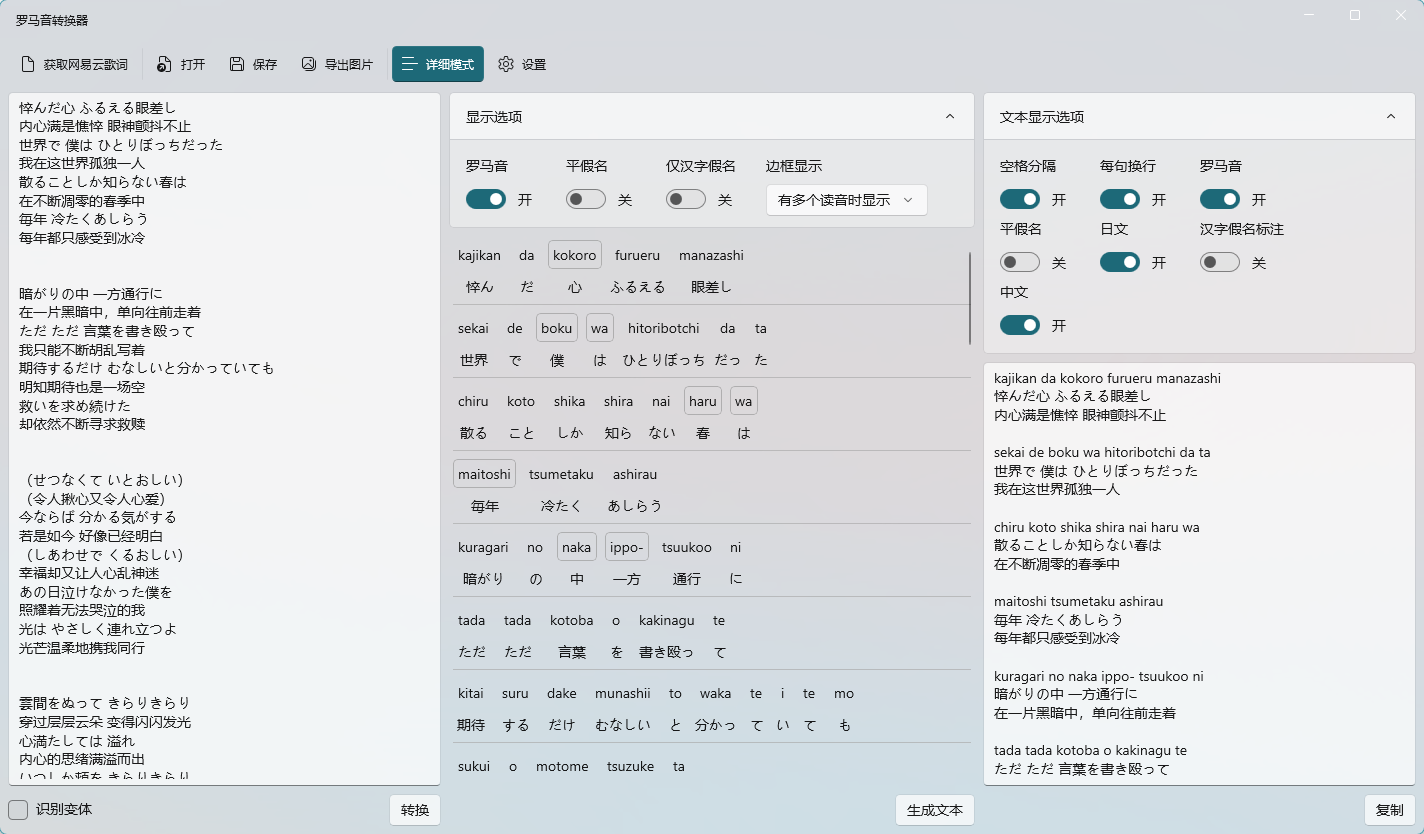
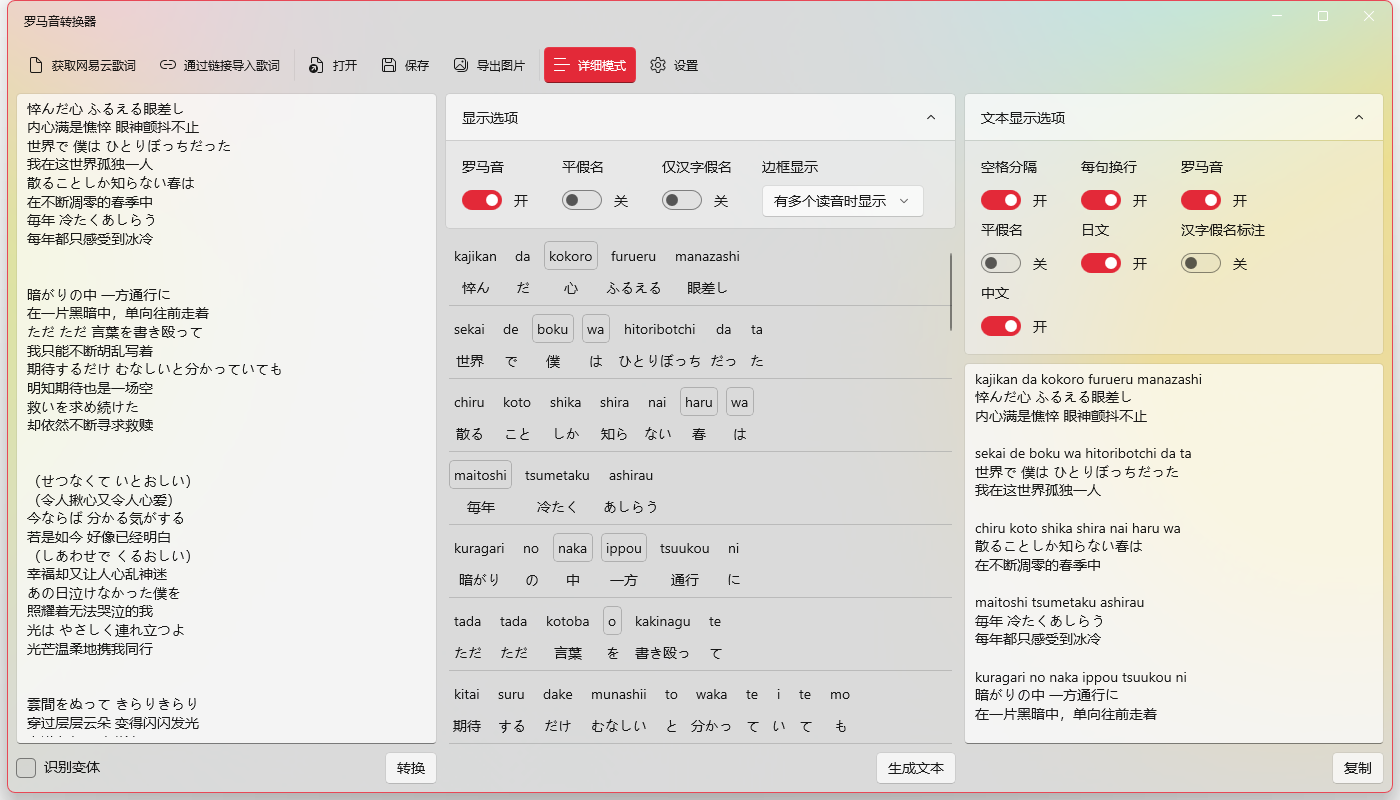
doc: 更新文档

Changed region(s): [[0.0, 0.0, 1.0, 1.0]]

diff --git a/RomajiConverter.WinUI/Dialogs/ImportUrlContentDialog.xaml b/RomajiConverter.WinUI/Dialogs/ImportUrlContentDialog.xaml
@@ -9,7 +9,7 @@
     xmlns:mc="http://schemas.openxmlformats.org/markup-compatibility/2006"
     mc:Ignorable="d"
     x:Uid="ImportUrlContentDialog"
-    Title="通过链接导入"
+    Title="通过链接导入歌词"
     PrimaryButtonText="确认"
     CloseButtonText="取消"
     DefaultButton="Primary">

diff --git a/doc/README-en.md b/doc/README-en.md
@@ -21,11 +21,14 @@ Here's the user-facing document, if you're more focused on development-related c
 - Convert kana and kanji to romaji
 - Support direct conversion of Japanese lyrics with Chinese translation (by copying or importing)
 - Support the import of currently playing lyrics on NetEase Cloud Music PC Client
+- Support import lyrics from links (NetEase Cloud, QQ Music, KuGou)
 - Provide multiple pronunciations of a word as an alternative
 - You can edit the conversion result and export it as a PNG image
 
 ## UI Description
-1. Enter your Japanese text in the text box on the left, or get the lyrics of the song currently being played from the NetEase Cloud Music PC client via the `Get CloudMusic Lyrics` button, which does not support pure music and the sound in the podcast
+1. Enter your Japanese text in the text box on the left
+    - Or get the lyrics of the song currently being played from the NetEase Cloud Music PC client via the `Get CloudMusic Lyrics` button, which does not support pure music and the sound in the podcast
+    - Or use the `Import Lyics From Url` button to enter the song sharing url obtained from NetEase Cloud, QQ Music, and KuGou's PC client to import lyrics
 2. Select `Consider variants`, it will try to convert unrecognized kanji characters to traditional or simplified until get the romaji correctly. If this option is not selected, the original text will be converted directly
 3. In non-`Detail Mode`, click the `Convert` button to get the converted text, and you can change the format of the converted text in the `Text Display Option` above
 4. In `Detail Mode`, click `Convert` will generate a preview of the conversion, the display elements can be changed via the `Display Option` above, if you find a conversion error, you can double-click the box to enter edit mode to modify it, you can choose the pronunciation alternates generated by the app, or you can enter text freely. Click on the blank space or Enter to exit the editing mode, and then click `Generate Text` to get the converted text
@@ -50,6 +53,9 @@ Here's the user-facing document, if you're more focused on development-related c
 - Selecting the framework-dependent version requires installing [.net core 8.0 desktop runtime](https://dotnet.microsoft.com/en-us/download/dotnet/8.0), while the self-contained version does not
 
 ## Update log
+
+### 1.2.2
+- Added the function of importing lyrics from url, supporting NetEase Cloud, QQ Music, and KuGou
 
 ### 1.2.1
 - Fixed an unexpected error when converting romaji

diff --git a/README.md b/README.md
@@ -21,11 +21,14 @@
 - 将假名、汉字转换为罗马音
 - 支持直接转换带中文翻译的日语歌词（通过复制或导入）
 - 支持网易云音乐PC端的当前播放的歌词导入
+- 支持通过链接导入歌词（网易云、QQ音乐、酷狗）
 - 提供单词的多个读音作为备选项
 - 支持编辑转换结果，并将其导出为png图片
 
 ## 界面说明
-1. 在左侧的文本框输入你的日文文本，或者通过`获取网易云歌词`按钮从网易云音乐PC客户端获取当前正在播放的歌曲歌词，该功能不支持纯音乐和播客中的声音
+1. 在左侧的文本框输入你的日文文本
+    - 或者通过`获取网易云歌词`按钮从网易云音乐PC客户端获取当前正在播放的歌曲歌词，该功能不支持纯音乐和播客中的声音
+    - 或者通过`通过链接导入歌词`按钮，输入从网易云、QQ音乐、酷狗的PC客户端获得的歌曲分享链接，从而导入歌词
 2. 勾选`识别变体`，会尝试对无法识别的汉字进行简繁转换，直到可以正确获取罗马音为止。不勾选则直接转换原文本
 3. 非`详细模式`下，点击`转换`按钮即可获取转换文本，并可在上方`文本显示选项`更改转换文本的格式
 4. `详细模式`下，点击`转换`会生成转换预览，可以通过上方的`显示选项`改变显示元素，如果你发现了转换错误的地方，可以双击方框进入编辑模式进行修改，可以选择应用生成的读音备选项，也可以自由输入文本，点击空白区域或Enter退出编辑模式，修改好之后再点击`生成文本`即可获取转换文本
@@ -50,6 +53,9 @@
 - 选择框架依赖版需要安装[.net core 8.0桌面运行时](https://dotnet.microsoft.com/zh-cn/download/dotnet/8.0)，独立版则不需要
 
 ## 更新日志
+
+### 1.2.2
+- 新增通过链接导入歌词功能，支持网易云、QQ音乐、酷狗
 
 ### 1.2.1
 - 修复转换罗马音时意外报错的问题

diff --git a/doc/README-dev-en.md b/doc/README-dev-en.md
@@ -12,6 +12,8 @@ Here's the document for developers, if you're more interested in using the app, 
 - The implementation process is to read the local data file of the NetEase Cloud Music client, which contains the last played song (the currently played song), after getting the songId, request the official api interface (no authentication required) to get the lyrics
 - NetEase Cloud Music (V3.0) local data is stored in `User\AppData\Local\Netease\CloudMusic\Library\webdb.dat`, which is a sqlite file
 
+## QQ Music Lyrics & KuGou Lyrics
+- Access the song sharing link, get the song ID and other information, and get the lyrics and Chinese translation through the official interface
 
 ## Project references
 [MeCab.DotNet](https://github.com/kekyo/MeCab.DotNet)  

diff --git a/doc/README-dev-cn.md b/doc/README-dev-cn.md
@@ -12,6 +12,9 @@
 - 实现过程是读取网易云客户端本地的数据文件，里面有最后播放的歌曲（当前播放的歌曲），拿到songId后请求官方的api接口（不需要鉴权）拿到歌词
 - 网易云（3.0版本）本地数据保存在`文档\AppData\Local\Netease\CloudMusic\Library\webdb.dat`，是sqlite文件
 
+## QQ音乐歌词 & 酷狗歌词
+- 访问歌曲分享链接，获取歌曲Id等信息，通过官方接口获取歌词和中文翻译
+
 
 ## 项目引用
 [MeCab.DotNet](https://github.com/kekyo/MeCab.DotNet)  
